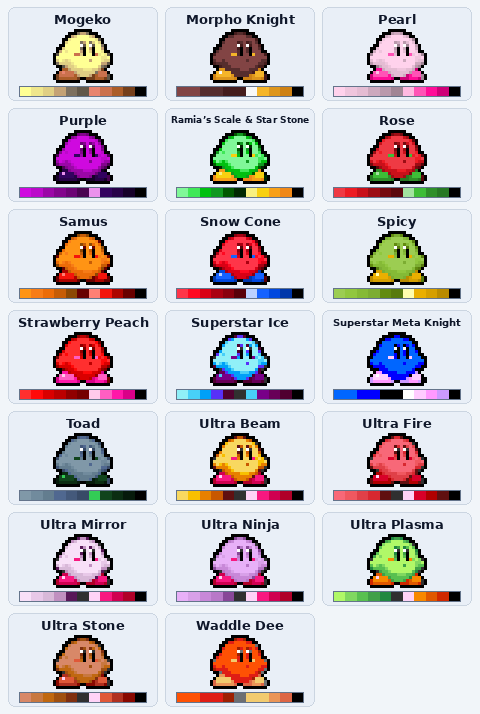
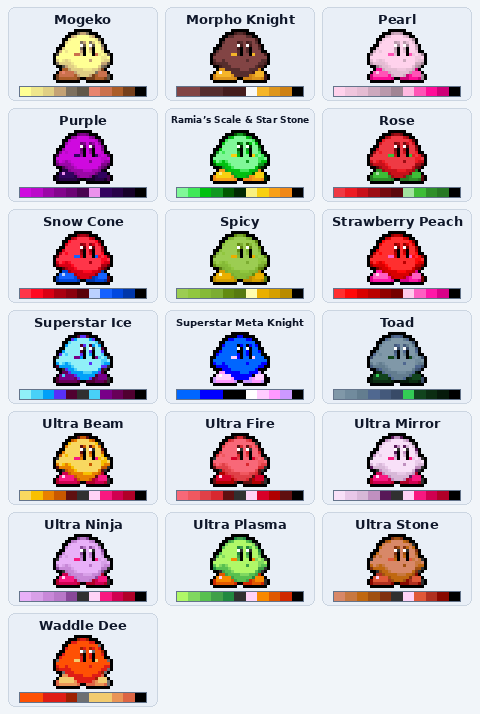
Remove the Samus palette proposal

Changed region(s): [[0.3438, 0.3081, 0.6562, 0.986], [0.0312, 0.3081, 0.3125, 0.986], [0.6875, 0.3081, 0.9688, 0.8627]]

diff --git a/worlds/kirbyam/docs/color-palettes.md b/worlds/kirbyam/docs/color-palettes.md
@@ -65,14 +65,14 @@ Kirby & The Amazing Mirror:
 
 ## Proposed colors
 
-These **39 reference palettes** are not in the game and cannot be selected in YAML. The sprite mockups show how the reference swatches look on normal Kirby; they have not been implemented or checked in gameplay. Names and colors may change.
+These **38 reference palettes** are not in the game and cannot be selected in YAML. The sprite mockups show how the reference swatches look on normal Kirby; they have not been implemented or checked in gameplay. Names and colors may change.
 
 ![Kirby mockups and swatches for the first 19 proposals, Advance Ice through Meconopsis / Blue Poppy. The names are listed below.](color-palettes-proposals-1.png)
 
-![Kirby mockups and swatches for the remaining 20 proposals, Mogeko through Waddle Dee. The names are listed below.](color-palettes-proposals-2.png)
+![Kirby mockups and swatches for the remaining 19 proposals, Mogeko through Waddle Dee. The names are listed below.](color-palettes-proposals-2.png)
 
 <details>
-<summary>All 39 proposed color names</summary>
+<summary>All 38 proposed color names</summary>
 
 - Advance Ice
 - Advance Stone
@@ -99,7 +99,6 @@ These **39 reference palettes** are not in the game and cannot be selected in YA
 - Purple
 - Ramia’s Scale & Star Stone
 - Rose
-- Samus
 - Snow Cone
 - Spicy
 - Strawberry Peach
